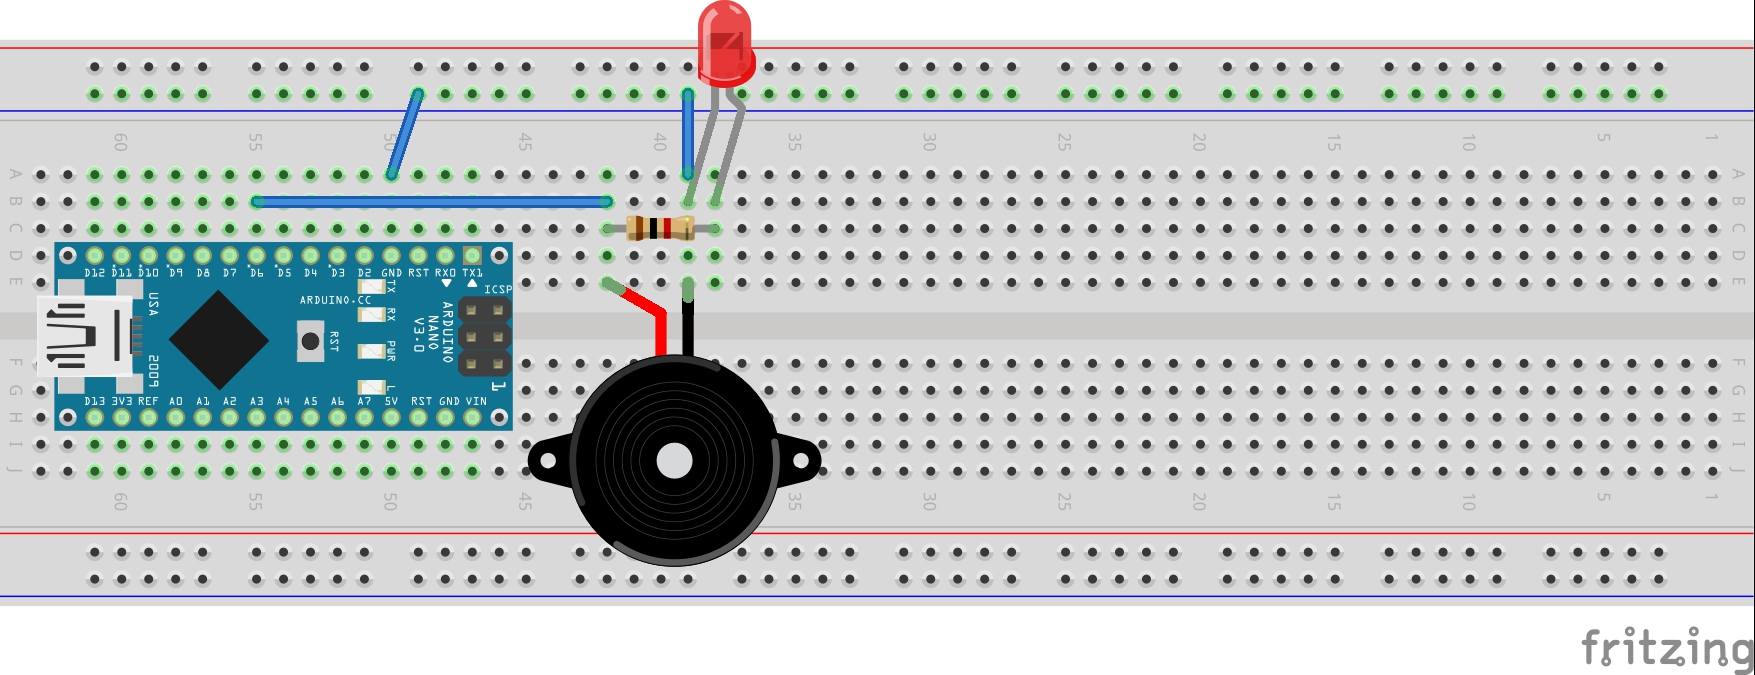
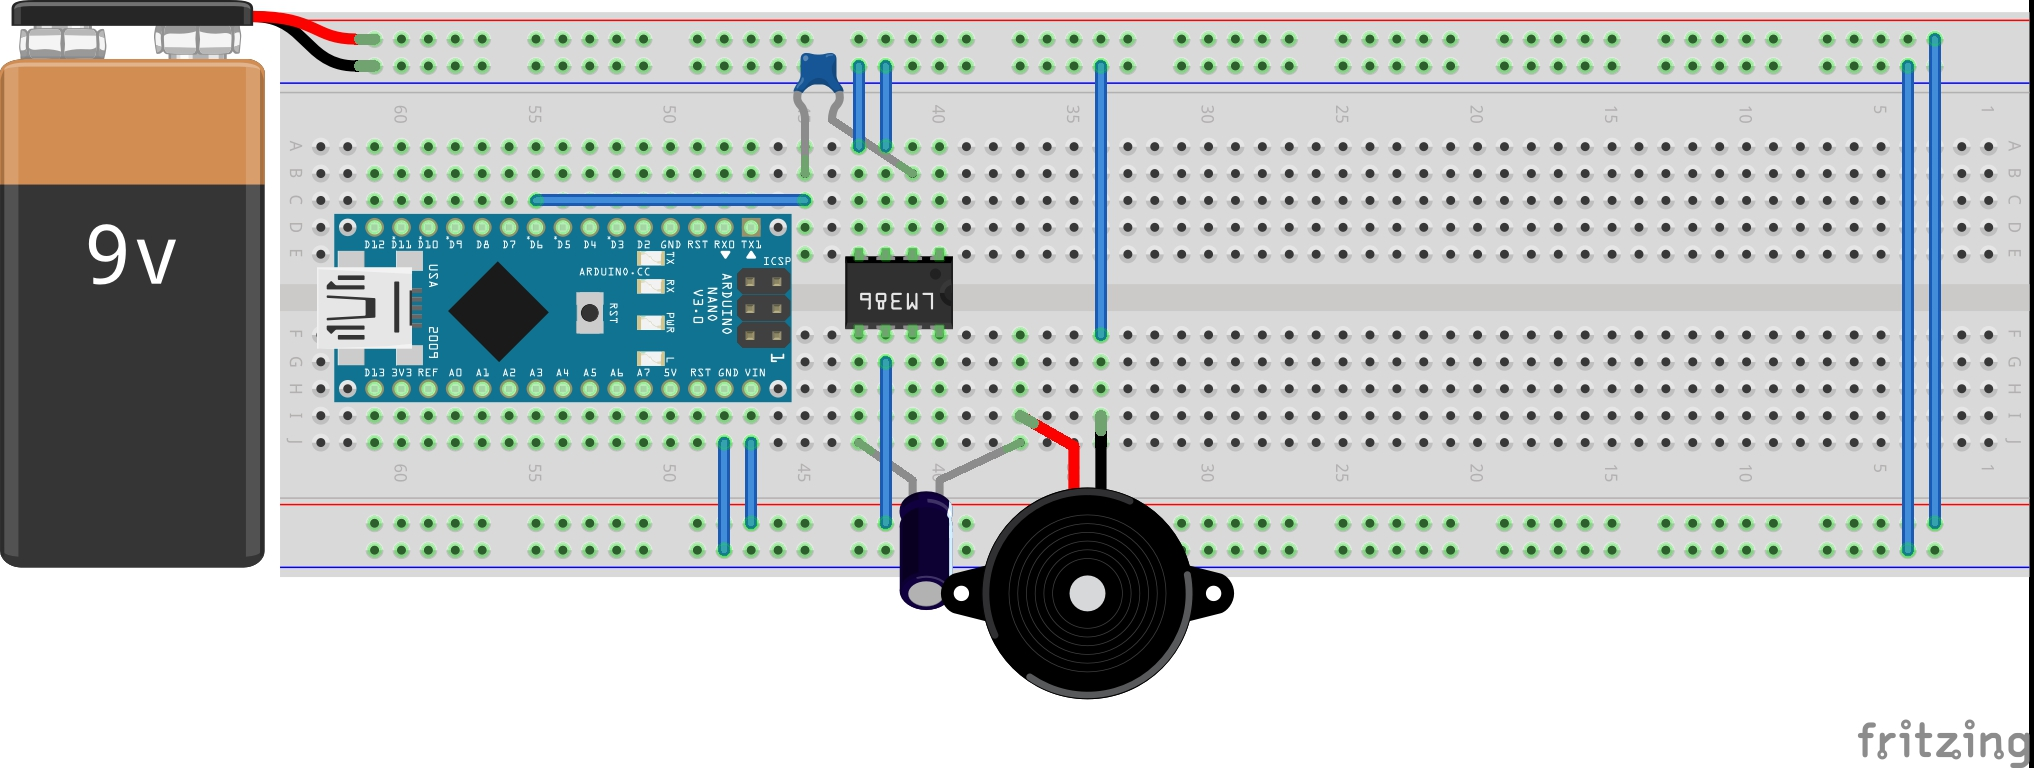
[JarabeTapatio] amplify

diff --git a/playground/JarabeTapatio/README.md b/playground/JarabeTapatio/README.md
@@ -1,4 +1,4 @@
-# Jarabe Tapatío - The Mexican Hat Dance
+# El Jarabe Tapatío - The Mexican Hat Dance
 
 Play The Mexican Hat Dance on a piezo buzzer!
 
@@ -6,6 +6,14 @@ Play The Mexican Hat Dance on a piezo buzzer!
 
 A simplified version of the melody in scored in this [GuitarPro](./assets/Jarabe Tapatío simple melody.gpx) file.
 It is the basis of the song payed by the sketch.
+
+### Amplification
+
+The signal from the Arduino can be directly fed to a piezo, however this doesn't result in a very loud sound.
+
+This circuit uses an LM 386 Low Voltage Audio Power Amplifier as a simple way to apmplify the AC signal.
+Given that we are only interested in the alternativing signal, the amplifier input and output signals are isolated with capacitors.
+It is used in the default configuration, which results in a relatively low gain (x20) but that seems sufficient for our purposes here.
 
 ### Construction
 
@@ -16,5 +24,6 @@ It is the basis of the song payed by the sketch.
 ![The Build](./assets/JarabeTapatio_build.jpg?raw=true)
 
 ## Credits and references
+* [LM 386 datasheet](http://www.futurlec.com/Linear/LM386N-1.shtml)
 * Based on the [Arduino Tone](http://arduino.cc/en/Tutorial/Tone) example
 * Enhanced with ideas from 9.2 Playing a Simple Melody in the [Arduino Cookbook](http://www.amazon.com/gp/product/1449313876/ref=as_li_tl?ie=UTF8&camp=1789&creative=390957&creativeASIN=1449313876&linkCode=as2&tag=itsaprli-20&linkId=5F6YF3D5RCEZYXUU)

diff --git a/Girabot/README.md b/Girabot/README.md
@@ -63,8 +63,8 @@ Possibly:
 ...
 
 ### Proof-of-concept/Explorations
+* [El Jarabe Tapatío](../playground/JarabeTapatio) - play The Mexican Hat Dance on a piezo buzzer with LM 386 amplification
 * [Popcorn](../playground/Popcorn) - How to make a piezo buzzer even more annoying? Make it play popcorn!
-* [Jarabe Tapatío](./playground/JarabeTapatio) - play The Mexican Hat Dance on a piezo buzzer
 
 ## Use-case: Girabot can move itself
 

diff --git a/README.md b/README.md
@@ -48,7 +48,7 @@ Arduino projects testing various sensor inputs.
 
 ## Audio Output
 
-* [Jarabe Tapatío](./playground/JarabeTapatio) - play The Mexican Hat Dance on a piezo buzzer
+* [El Jarabe Tapatío](./playground/JarabeTapatio) - play The Mexican Hat Dance on a piezo buzzer with LM 386 amplification
 * [Popcorn](./playground/Popcorn) - How to make a piezo buzzer even more annoying? Make it play popcorn!
 
 ## Human Input
